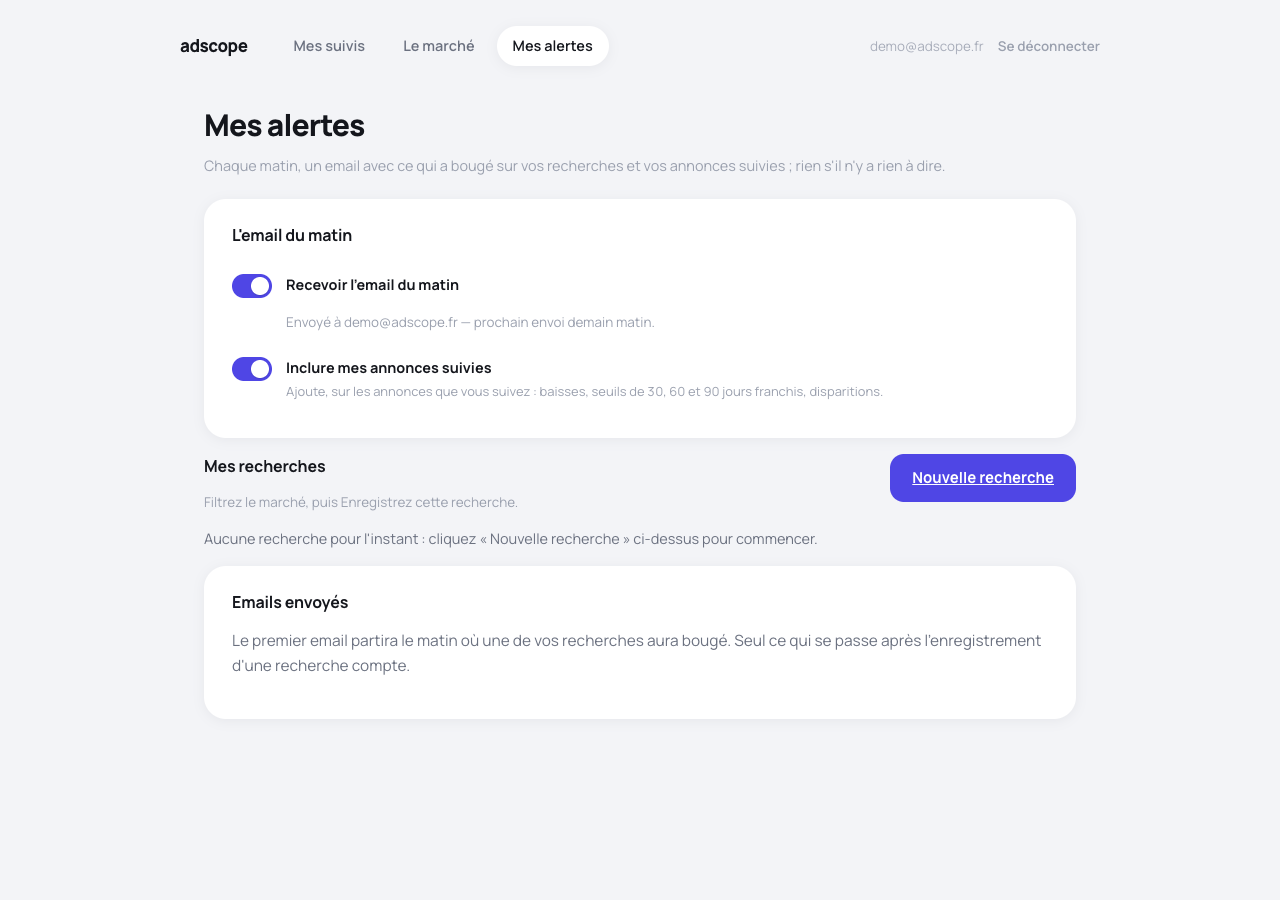
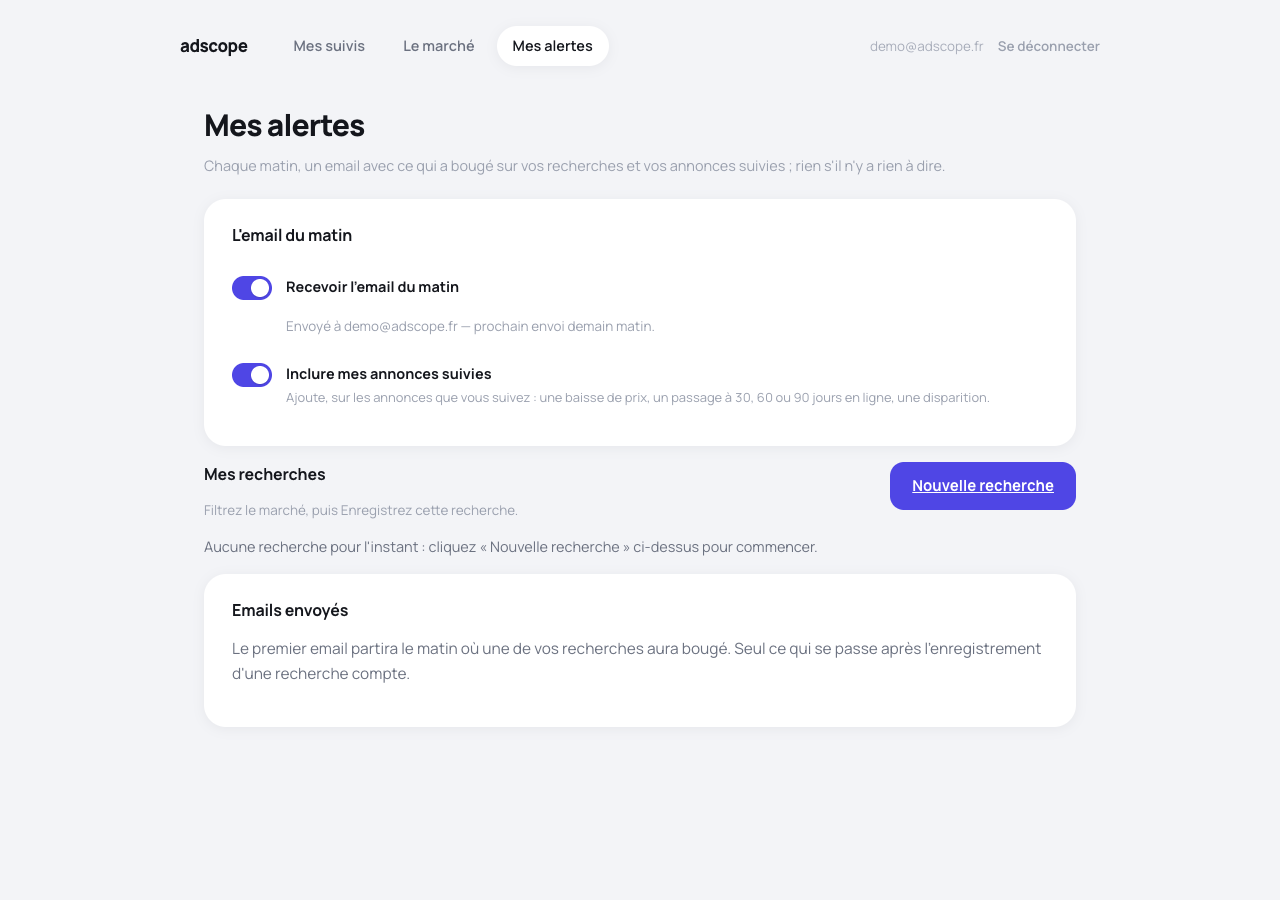
Mes alertes : les trois bloquants relevés par un regard neuf
Aucun filet nulle part (le registre l'interdit) : les quatre traits de
séparation d'alerts.css remplacés par de l'air. L'orangé, réservé à « ce
que le site cache » ailleurs sur le site, retiré du badge « En pause » et
de l'email coupé au profit d'un gris neutre. Les lignes d'« Emails
envoyés » disent maintenant qu'elles s'ouvrent (chevron, survol) et
laquelle est ouverte (fond à l'accent, titre au-dessus de l'aperçu).

Au passage : la carte en pause n'atténue plus que son corps, jamais la
carte elle-même (un `opacity` sur une carte blanche entière la teintait
de gris au contact du sol) ; « Inclure mes annonces suivies » se grise
quand l'email est coupé ; la phrase des annonces suivies reformulée sans
« seuils … franchis ». Un chevron ajouté sur mobile faisait déborder le
sujet d'un email sur ses visites, corrigé avant capture.

Captures des quatre PNG refaites et relues. Tests inchangés : 150 côté
site, 816 côté API.

diff --git a/web/css/alerts.css b/web/css/alerts.css
@@ -23,8 +23,8 @@
 .suivis-entete .bascule,.suivis-entete .tri-suivis{margin:0}
 
 /* ── L'interrupteur — piste + pastille à l'accent, une case native dessous ── */
-.switch-bloc{padding:12px 0}
-.switch-bloc + .switch-bloc{border-top:1px solid var(--gris-pale)}
+/* Aucun filet (registre) : les blocs se séparent par l'air, pas par un trait. */
+.switch-bloc{padding:14px 0}
 /* `flex-start`, pas `center` : une phrase qui passe sur deux lignes (mobile,
    « Inclure mes annonces suivies ») centrerait sinon la piste entre les deux
    lignes au lieu de l'aligner sur le titre. */
@@ -49,7 +49,9 @@
 
 /* L'email du matin */
 .ed-info{font-size:13.5px; color:var(--faible); margin:2px 0 12px 54px}
-.ed-off{color:var(--orange)}
+/* L'orangé est réservé à « ce que le site cache » (fiche annonce) : l'email
+   coupé se dit par le poids du texte, pas par une couleur de statut. */
+.ed-off{color:var(--douce); font-weight:600}
 
 /* Mes recherches */
 .as-entete{display:flex; align-items:flex-start; justify-content:space-between; gap:16px; margin-bottom:16px}
@@ -57,20 +59,22 @@
 .as-section-erreur{font-size:13px; color:#B4243A; margin:0 0 12px}
 .as-tout{color:var(--douce); font-size:14.5px}
 .as-vide{display:flex; flex-direction:column; align-items:flex-start; gap:14px}
-.as-carte{transition:opacity .15s}
-.as-carte-pause{opacity:.6}
 .as-tete{display:flex; align-items:center; gap:10px; margin-bottom:12px}
 .as-nom{font-size:16.5px; font-weight:700; letter-spacing:-.01em}
+/* Badge de statut, pas « ce que le site cache » : gris neutre, jamais l'orangé. */
 .as-badge{
-  font-size:12px; font-weight:700; color:var(--orange); background:var(--orange-pale);
+  font-size:12px; font-weight:700; color:var(--douce); background:var(--gris-pale);
   border-radius:999px; padding:3px 10px;
 }
 .pastille-lecture{cursor:default; padding:7px 13px}
 .as-compte{display:flex; align-items:center; gap:14px; font-size:13.5px; color:var(--faible); margin:14px 0 4px}
-.as-regles{margin-top:6px}
-.as-regle{padding:6px 0}
-.as-regle + .as-regle{border-top:1px solid var(--gris-pale)}
-.as-regle .switch-bloc{padding-bottom:2px}
+/* En pause : le corps s'atténue, jamais la carte elle-même (« cartes
+   blanches » du registre — un `opacity` sur la carte entière la teinterait
+   de gris au contact du sol). L'entête (nom + badge) reste lisible. */
+.as-carte-corps{transition:opacity .15s}
+.as-carte-pause .as-carte-corps{opacity:.55}
+.as-regles{margin-top:6px; display:flex; flex-direction:column; gap:16px}
+.as-regle .switch-bloc{padding:0}
 .as-seuils{
   display:flex; align-items:center; flex-wrap:wrap; gap:6px 4px;
   margin:0 0 8px 54px; font-size:13px; color:var(--faible);
@@ -78,7 +82,7 @@
 .as-select{padding:5px 28px 5px 12px; font-size:12.5px}
 .as-actions{
   display:flex; align-items:center; justify-content:space-between; gap:16px;
-  margin-top:14px; padding-top:14px; border-top:1px solid var(--gris-pale);
+  margin-top:22px;
 }
 .as-actions > div{display:flex; align-items:center; gap:10px; flex-wrap:wrap}
 .as-discret{font-size:13px; font-weight:600; color:var(--faible); white-space:nowrap}
@@ -86,17 +90,27 @@
 .as-arme{color:#B4243A}
 .as-note{font-size:12.5px; color:var(--grise)}
 
-/* Emails envoyés */
-.ao-liste{display:flex; flex-direction:column}
+/* Emails envoyés — chaque ligne est un bouton (ouvre l'aperçu dessous) : un
+   fond au survol le dit, un fond à l'accent dit laquelle est ouverte, et un
+   chevron reprend l'affordance déjà utilisée pour les sections repliables
+   (views.css, `.chev`). Aucun filet : les lignes se séparent par un `gap`. */
+.ao-liste{display:flex; flex-direction:column; gap:2px}
 .ao-ligne{
   display:flex; align-items:center; gap:16px; width:100%; text-align:left;
-  padding:13px 0; border-bottom:1px solid var(--gris-pale); font-size:13.5px;
+  padding:12px 14px; margin:0 -14px; border-radius:14px; font-size:13.5px;
+  transition:background .15s;
 }
-.ao-liste .ao-ligne:last-child{border-bottom:0}
+.ao-ligne:hover,.ao-ligne:focus-visible{background:var(--gris-pale)}
+.ao-ligne-ouverte,.ao-ligne-ouverte:hover{background:var(--accent-pale)}
 .ao-jour{color:var(--faible); white-space:nowrap; width:76px; flex:none}
 .ao-sujet{flex:1; min-width:0; font-weight:600}
+.ao-ligne-ouverte .ao-sujet{color:var(--accent-encre)}
+.ao-meta{display:flex; align-items:center; gap:10px; flex:none}
 .ao-visites{color:var(--faible); white-space:nowrap}
+.ao-chev{color:var(--grise); transition:transform .15s; flex:none}
+.ao-ligne-ouverte .ao-chev{color:var(--accent-encre); transform:rotate(90deg)}
 .ao-apercu{margin-top:18px}
+.ao-apercu-titre{font-size:13px; font-weight:700; color:var(--douce); margin:0 0 10px}
 .ao-iframe{
   width:100%; height:520px; border:0; border-radius:16px; background:var(--gris-pale);
 }
@@ -108,6 +122,9 @@
   .as-actions{flex-direction:column; align-items:flex-start; gap:10px}
   .ed-info{margin-left:0}
   .switch-erreur,.as-seuils{margin-left:0}
-  .ao-ligne{flex-wrap:wrap}
+  /* Le sujet ne rétrécit pas mot par mot : `ao-meta` (visites + chevron)
+     passe entier sur sa propre ligne, aligné à droite comme sur desktop. */
+  .ao-ligne{flex-wrap:wrap; row-gap:4px}
+  .ao-meta{flex-basis:100%; justify-content:flex-end}
   .ao-iframe{height:420px}
 }

diff --git a/web/js/alerts-outbox.js b/web/js/alerts-outbox.js
@@ -1,6 +1,8 @@
 // « Emails envoyés » — la boîte d'envoi : jour, sujet, visites en clair. Un
 // email sélectionné se rend dans un `<iframe>` bac à sable : `sandbox=""`
 // est la restriction maximale (ni scripts, ni même origine, ni formulaires).
+// La ligne ouverte porte `ao-ligne-ouverte` (fond à l'accent + chevron
+// tourné) — sans ça, l'aperçu apparaît sans dire de quelle ligne il vient.
 //
 // Piège nommé au plan (§10) : `dom.el` écarte `null` et `false`, jamais la
 // chaîne vide — `sandbox: ''` pose bien l'attribut, `sandbox: false` le
@@ -19,34 +21,53 @@ export function visitsLabel(visits) {
   return `${visits} visite${visits > 1 ? 's' : ''}`
 }
 
-function ligne(row, onOpen) {
-  return el('button', { class: 'ao-ligne', onclick: () => onOpen(row.id) }, [
+// Visites + chevron groupés dans `ao-meta` : en colonne étroite (mobile), ce
+// bloc passe entier sous jour/sujet plutôt que de forcer le sujet à
+// rétrécir mot par mot jusqu'à déborder sur « Pas encore ouvert ».
+function ligne(row, ouverte, onOpen) {
+  return el('button', {
+    class: `ao-ligne${ouverte ? ' ao-ligne-ouverte' : ''}`,
+    'aria-expanded': String(ouverte),
+    onclick: () => onOpen(row.id),
+  }, [
     el('span', { class: 'ao-jour', text: shortDate(row.day) }),
     el('span', { class: 'ao-sujet', text: row.subject }),
-    el('span', { class: 'ao-visites', text: visitsLabel(row.visits) }),
+    el('span', { class: 'ao-meta' }, [
+      el('span', { class: 'ao-visites', text: visitsLabel(row.visits) }),
+      el('span', { class: 'ao-chev', text: '›', 'aria-hidden': 'true' }),
+    ]),
   ])
 }
 
 export function renderOutbox(rows, fetchDigest) {
+  const liste = el('div', { class: 'ao-liste' })
   const apercu = el('div', { class: 'ao-apercu' })
+  let ouverteId = null
+
+  function dessinerListe() {
+    clear(liste).append(...rows.map((r) => ligne(r, r.id === ouverteId, ouvrir)))
+  }
 
   async function ouvrir(id) {
+    ouverteId = id
+    dessinerListe()
     clear(apercu).append(el('p', { class: 'vue-s', text: 'Chargement…' }))
     try {
       const d = await fetchDigest(id)
-      clear(apercu).append(el('iframe', {
-        class: 'ao-iframe', sandbox: '', srcdoc: d.html, title: `Email du ${d.day}`,
-      }))
+      clear(apercu).append(
+        el('p', { class: 'ao-apercu-titre', text: `Aperçu de l'email du ${shortDate(d.day)}` }),
+        el('iframe', { class: 'ao-iframe', sandbox: '', srcdoc: d.html, title: `Email du ${d.day}` }),
+      )
     } catch {
       clear(apercu).append(el('p', { class: 'vue-s', text: "L'email n'a pas pu être ouvert." }))
     }
   }
 
+  if (rows.length) dessinerListe()
+
   return el('section', { class: 'carte alerts-carte' }, [
     el('h2', { class: 'alerts-h', text: 'Emails envoyés' }),
-    rows.length
-      ? el('div', { class: 'ao-liste' }, rows.map((r) => ligne(r, ouvrir)))
-      : el('p', { class: 'vide', text: VIDE }),
+    rows.length ? liste : el('p', { class: 'vide', text: VIDE }),
     apercu,
   ])
 }

diff --git a/web/js/alerts-searches.js b/web/js/alerts-searches.js
@@ -57,13 +57,11 @@ function actions(search, { onTogglePause, onDelete }) {
   ])
 }
 
+// En pause, seul le corps s'atténue (`as-carte-corps`) : la carte reste
+// blanche (registre), l'entête et les actions restent lisibles.
 function carte(search, facetsById, callbacks) {
   const facets = facetsById[search.id]
-  return el('section', { class: `carte as-carte${search.paused ? ' as-carte-pause' : ''}` }, [
-    el('div', { class: 'as-tete' }, [
-      el('h3', { class: 'as-nom', text: search.name }),
-      search.paused && el('span', { class: 'as-badge', text: 'En pause' }),
-    ]),
+  const corps = el('div', { class: 'as-carte-corps' }, [
     pastilles(search, facets),
     el('p', { class: 'as-compte' }, [
       el('span', { text: countLabel(facets && facets.total) }),
@@ -79,6 +77,13 @@ function carte(search, facetsById, callbacks) {
         el('p', { class: 'switch-phrase as-seuils', text: NEW_SENTENCE }),
       ]),
     ]),
+  ])
+  return el('section', { class: `carte as-carte${search.paused ? ' as-carte-pause' : ''}` }, [
+    el('div', { class: 'as-tete' }, [
+      el('h3', { class: 'as-nom', text: search.name }),
+      search.paused && el('span', { class: 'as-badge', text: 'En pause' }),
+    ]),
+    corps,
     actions(search, callbacks),
   ])
 }

diff --git a/web/js/alerts-digest.js b/web/js/alerts-digest.js
@@ -6,8 +6,8 @@
 import { clear, el } from './dom.js'
 import { renderSwitch } from './switch.js'
 
-const FOLLOWS_SENTENCE = 'Ajoute, sur les annonces que vous suivez : baisses, seuils de 30, '
-  + '60 et 90 jours franchis, disparitions.'
+const FOLLOWS_SENTENCE = 'Ajoute, sur les annonces que vous suivez : une baisse de prix, '
+  + 'un passage à 30, 60 ou 90 jours en ligne, une disparition.'
 const OFF_NOTICE = "L'email est coupé : vos recherches restent enregistrées, mais rien ne partira."
 
 export function renderDigestCard(root, settings, email, api) {
@@ -30,6 +30,7 @@ export function renderDigestCard(root, settings, email, api) {
       renderSwitch({
         id: 'alerts-digest-follows',
         checked: settings.include_follows,
+        disabled: !settings.digest_enabled,
         onChange: async (value) => {
           await api.putAlertSettings({ ...settings, include_follows: value })
           settings.include_follows = value

diff --git a/.superpowers/alertes-f1-web.md b/.superpowers/alertes-f1-web.md
@@ -385,3 +385,110 @@ sur un port éphémère, arrêté par son propre PID.
    recharger « Mes alertes » montrerait un compte figé jusqu'au prochain chargement.
 5. **`api/tests/test_digest_html.py` n'exerce pas `digest_send.py`** (déjà couvert par
    `test_digest.py`, non touché) — lecture de contrat, pas d'exécution croisée.
+
+---
+
+## 2026-09-21 — Un regard neuf refuse la page : trois bloquants
+
+Relecture des quatre captures du lot précédent par un œil neuf, avec la place de Karim.
+Trois points bloquants, tous du même genre : des détails que la refonte du matin avait
+laissés passer parce qu'ils ne sautent pas aux yeux dans le code, seulement sur l'image
+rendue.
+
+### Les trois bloquants, relus depuis la place de Karim
+
+1. **Des filets partout, alors que le registre en interdit** (`switch-bloc + switch-bloc`,
+   `as-regle + as-regle`, `as-actions`, `ao-ligne`). Karim ne les nomme pas « filets » —
+   il dirait juste que la page a un petit côté tableau Excel, pas appli. Le trait entre
+   les deux règles d'une carte, en particulier, donne l'impression que « Baisses » et
+   « Nouvelles annonces » sont deux zones administratives séparées plutôt que deux
+   phrases qu'on lit à la suite.
+2. **L'orangé du badge « En pause » et de l'email coupé** — Karim n'a aucune raison de
+   savoir que l'orangé est réservé ailleurs sur le site à « ce que le site cache » (la
+   fenêtre des 60 jours sur une fiche). Mais s'il croise les deux usages, l'orangé cesse
+   de vouloir dire une seule chose, et un badge de statut ne doit pas emprunter la
+   couleur d'un autre message.
+3. **Les lignes d'« Emails envoyés » ouvrent un aperçu sans le dire.** Rejoué à la place
+   de Karim : « Je clique sur *18 sept.* parce que la ligne entière est un bouton — mais
+   rien ne me dit que c'est cliquable avant que je clique, et une fois l'aperçu ouvert en
+   dessous, rien sur la ligne elle-même ne me dit que c'est *celle-là* que je regarde. »
+   Exactement l'ambiguïté relevée à la première lecture des captures.
+
+### Corrections
+
+- **Aucun filet.** Les quatre `border-top`/`border-bottom` retirés ; la séparation se
+  fait par l'air (padding/gap plus généreux), jamais par un trait — `web/css/alerts.css`.
+- **Orangé retiré des deux usages de statut.** `.as-badge` (« En pause ») passe en gris
+  neutre (`--douce`/`--gris-pale`, le pastillage déjà utilisé ailleurs pour un statut
+  neutre) ; `.ed-off` (email coupé) passe en `--douce` + gras plutôt qu'en couleur
+  réservée. L'orangé reste unique à la fiche annonce.
+- **Carte en pause : le corps s'atténue, jamais la carte.** Trouvé en écrivant cette
+  section : l'ancien `.as-carte-pause{opacity:.6}` sur la carte entière la teintait de
+  gris au contact du sol (une carte blanche à 60 % d'opacité sur un fond gris *devient*
+  grise) — à l'écart du registre « cartes blanches ». Le badge et le nom restent à pleine
+  lisibilité, seul le corps (`as-carte-corps`, pastilles + compte + règles) descend à
+  55 % — `alerts-searches.js`, `alerts.css`.
+- **Ligne « Emails envoyés » : affordance + état ouvert.** Chevron (même signe que la
+  section repliable de Mes suivis, `.chev`) qui tourne à 90° sur la ligne ouverte ; fond
+  au survol (gris) et fond à l'accent sur la ligne ouverte, sujet en accent ; un titre
+  *Aperçu de l'email du 18 sept.* au-dessus de l'iframe, daté avec la même aide
+  (`format.shortDate`) que les lignes elles-mêmes — `alerts-outbox.js`, `alerts.css`.
+
+### Deux mineurs, bon marché
+
+- **« seuils … franchis » reformulé** : « un passage à 30, 60 ou 90 jours en ligne » —
+  moins abstrait pour qui ne lit jamais le mot « seuil » — `alerts-digest.js`.
+- **« Inclure mes annonces suivies » se grise quand l'email est coupé** (`disabled` du
+  switch lié à `digest_enabled`) : cocher un réglage sur un email qui ne part pas ne
+  disait rien de faux, mais laissait deviner — `alerts-digest.js`.
+
+Le mineur du fond gris de la carte en pause est traité ci-dessus (bloquant connexe, même
+cause). Le mineur sur l'état « email coupé » non capturé reste : aucune des quatre
+captures requises ne montre ce compte ; vérifié seulement par lecture du code et par la
+règle CSS `.switch-input:disabled ~ .switch-track{opacity:.6}`, déjà en place avant ce
+lot — pas de capture supplémentaire hors périmètre.
+
+### Bug trouvé en refaisant les captures, avant livraison
+
+Le chevron ajouté à `ao-ligne` a cassé le rendu mobile : `flex-wrap` sur quatre éléments
+(jour, sujet, visites, chevron) laissait le sujet se rétrécir mot par mot jusqu'à 51 px
+de large plutôt que de céder la ligne, et « Pas encore ouvert » se retrouvait imprimé
+par-dessus « mouvement » (16 sept., capture mobile). Confirmé en comparant à la capture
+mobile du lot précédent (pas de chevauchement) : régression de cette correction, pas un
+défaut préexistant. Corrigé en groupant visites + chevron dans un seul bloc `ao-meta`
+qui passe entier sous jour/sujet en mobile (`flex-basis:100%`, aligné à droite) plutôt
+que de laisser le sujet et les trois autres éléments se disputer la largeur mot par mot
+— revérifié par une capture rapprochée (`.ao-liste` seul, échelle 2×) avant et après.
+
+### Captures
+
+Les quatre refaites (`docs/site-v0-alertes.png`, `-vide.png`, `-alerte-email.png`,
+`-mobile.png`), même procédé que le lot précédent (§ 5 plus haut) : Chromium mis en
+cache par Playwright, piloté en Node (`executablePath` pointé directement sur le
+binaire en cache — la commande `npx playwright screenshot` embarquée ne pilote pas de
+clic, nécessaire pour ouvrir une ligne d'email avant la capture), servi par
+`python3 -m http.server 0` sur `web/`, arrêté par son propre PID. Relues à l'outil
+`Read`, comparées ligne à ligne à la version précédente : aucun filet restant, badge et
+état coupé en gris, ligne d'email ouverte visiblement distincte, aucun débordement
+mobile.
+
+### Tests
+
+`node --test web/tests/*.test.mjs` → **150 passés**, inchangé (aucun test ne verrouillait
+les classes CSS ni le texte de `FOLLOWS_SENTENCE`). `cd api && ./.venv/bin/pytest
+tests/ -q` → **816 passés**, inchangé (`api/` non touché ce tour-ci). Aucun test neuf :
+ce tour ne change ni logique pure ni contrat, seulement CSS et structure DOM d'affichage
+— même limite déjà notée au lot précédent sur les vues non testables en environnement
+Node (pas de DOM).
+
+### Réserves
+
+1. **État « email coupé » non capturé** (mineur ci-dessus) : les quatre captures
+   requises ne couvrent pas ce compte, vérifié par lecture de code seulement.
+2. **`as-carte-pause`** : le choix de dimmer le corps plutôt que la carte n'a pas été
+   revalidé par le propriétaire — c'est ma lecture du registre (« cartes blanches »),
+   pas une confirmation explicite qu'il préfère ce rendu à l'ancien.
+3. Mêmes réserves qu'au lot précédent (§ 6 plus haut), non rouvertes ici : compteur par
+   recherche non testé directement, écriture optimiste des seuils/email non testée
+   automatiquement, confirmation après *Enregistrer cette recherche* non capturable en
+   mode démo.
